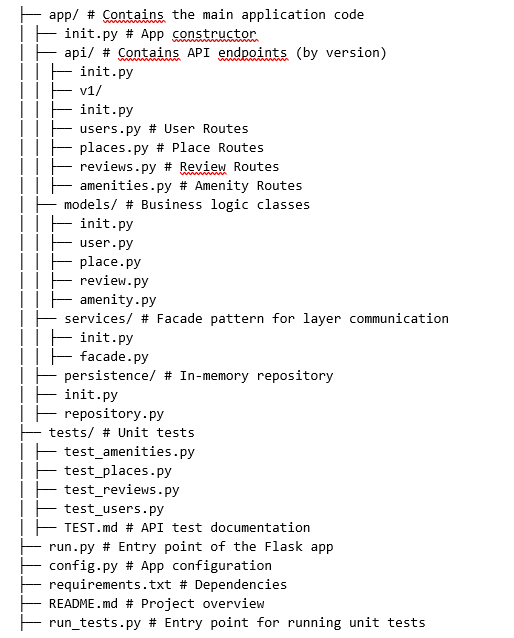
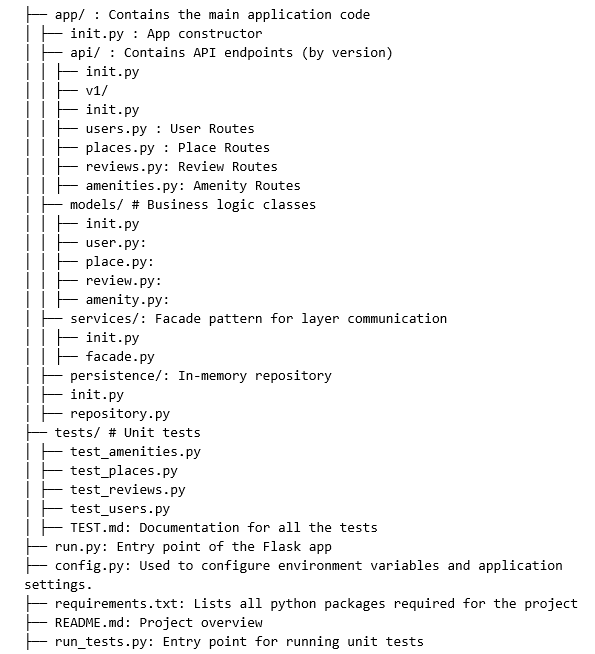
correctif image avec le texte cohérent

Changed region(s): [[0.0311, 0.0, 0.965, 1.0]]

diff --git a/README.md b/README.md
@@ -21,37 +21,3 @@ The application should now be running.
 ## Purpose of each directory and file
 
 ![Structure du projet](structure.png)
-
-├── app/ # Contains the main application code
-│ ├── init.py # App constructor
-│ ├── api/ # Contains API endpoints (by version)
-│ │ ├── init.py
-│ │ ├── v1/
-│ │ ├── init.py
-│ │ ├── users.py # User Routes
-│ │ ├── places.py # Place Routes
-│ │ ├── reviews.py # Review Routes
-│ │ ├── amenities.py # Amenity Routes
-│ ├── models/ # Business logic classes
-│ │ ├── init.py
-│ │ ├── user.py
-│ │ ├── place.py
-│ │ ├── review.py
-│ │ ├── amenity.py
-│ ├── services/ # Facade pattern for layer communication
-│ │ ├── init.py
-│ │ ├── facade.py
-│ ├── persistence/ # In-memory repository
-│ ├── init.py
-│ ├── repository.py
-├── tests/ # Unit tests
-│ ├── test_amenities.py
-│ ├── test_places.py
-│ ├── test_reviews.py
-│ ├── test_users.py
-│ ├── TEST.md # API test documentation
-├── run.py # Entry point of the Flask app
-├── config.py # App configuration
-├── requirements.txt # Dependencies
-├── README.md # Project overview
-├── run_tests.py # Entry point for running unit tests
